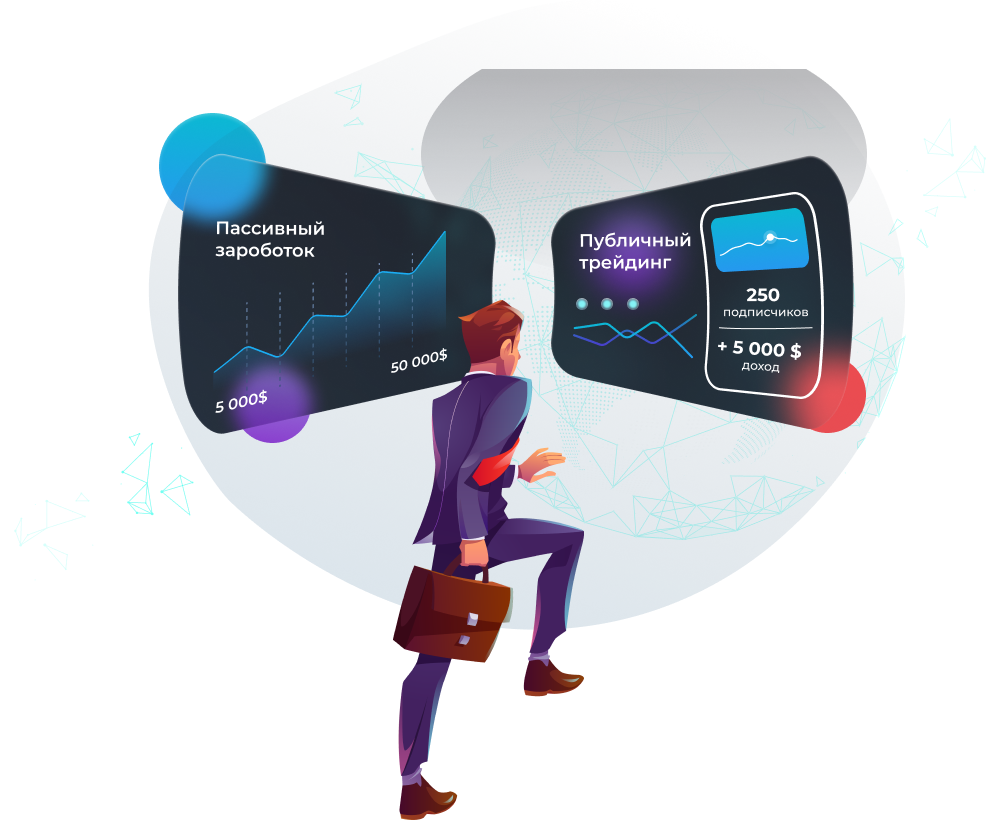
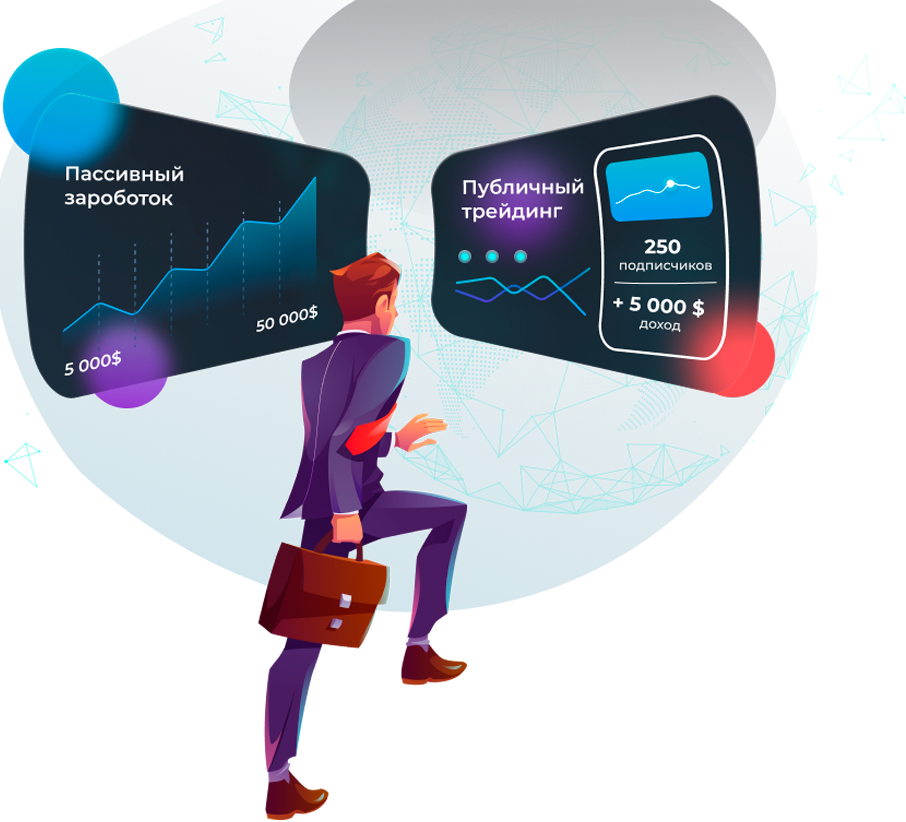
added section invest + footer + header

diff --git a/src/scss/home.scss b/src/scss/home.scss
@@ -1,6 +1,5 @@
 //===================================================================================================
 .invest {
-    position: relative;
     // .invest__container
 
     &__container {
@@ -11,22 +10,27 @@
     &__img::before {
         content: "";
         position: absolute;
-        top: 0;
-        left: 0;
+        top: 100px;
+        left: 1%;
         width: 448px;
-        height: 500px;
+        height: 357px;
         background-image: url("../img/bicoin.png ");
         background-repeat: no-repeat;
         background-size: contain;
+        background-position: center;
         background-position: center;
         z-index: -1;
         @media (max-width: 1250px) {
             width: 300px;
             height: 350px;
+            left: -5%;
         }
-        @media (max-width: 950px) {
-            width: 200px;
-            height: 250px;
+
+        @media (max-width: $mobile) {
+            left: -10%;
+            top: -100px;
+            width: 300px;
+            height: 350px;
         }
     }
 }
@@ -35,30 +39,46 @@
     // .cripto-treider__inner
 
     &__inner {
+        position: relative;
         display: flex;
         justify-content: space-between;
-        align-items: center;
-        position: relative;
+        align-items: end;
 
-        // @media (max-width: 980px) {
-        //     display: block;
-        // }
+        text-align: left;
+
+        @media (max-width: $mobile) {
+            text-align: center;
+            flex-direction: column;
+            justify-content: center;
+            align-items: center;
+        }
     }
 
     // .cripto-treider__item
 
     &__item {
+        display: flex;
+        flex-direction: column;
+        justify-content: flex-start;
+        height: 0px;
+
+        @media (max-width: $mobile) {
+            align-items: center;
+            z-index: -2;
+        }
     }
 
     // .cripto-treider__title
 
     &__title {
-        text-align: left;
-        margin-bottom: rem(15);
         margin-bottom: 30px;
         margin-top: 30px;
         line-height: 125%;
-        max-width: 438px;
+        font-weight: 600;
+        @media (max-width: $mobile) {
+            margin-bottom: 25px;
+            margin-top: 25px;
+        }
     }
 
     // .cripto-treider__text
@@ -66,7 +86,9 @@
     &__text {
         font-size: 12px;
         margin-bottom: 57px;
-        max-width: 338px;
+        @media (max-width: $mobile) {
+            margin-bottom: 14px;
+        }
     }
 
     // .cripto-treider__btn
@@ -74,6 +96,13 @@
     &__btn {
         max-width: 212px;
         box-sizing: border-box;
+        @media (max-width: $mobile) {
+            max-width: 200px;
+
+            margin-bottom: 14px;
+        }
+        @media (max-width: $mobileSmall) {
+        }
     }
 }
 .item {
@@ -81,32 +110,51 @@
 
     &__treider {
         flex: 0 1 400px;
+        position: relative;
+        @media (max-width: $mobile) {
+            flex: 0 1 190px;
+            z-index: -1;
+        }
+        @media (max-width: $mobileSmall) {
+            flex: 0 1 270px;
+        }
     }
     img {
+    }
+}
+.img-men {
+    img {
+        width: 100%;
+        max-width: 100%;
+        position: relative;
+        z-index: -1;
+        @media (max-width: $mobile) {
+            margin-right: 60px;
+        }
+
+        @media (max-width: $mobileSmall) {
+            width: 100%;
+        }
     }
 }
 .img-men::before {
     content: "";
     position: absolute;
-    top: -80px;
-    right: -50px;
-    width: 985px;
-    height: 830px;
-    background-image: url("../img/men.png ");
+    top: 70px;
+    right: -70px;
+    width: 80px;
+    height: 98px;
+    background-image: url(../img/уголок.верх.png);
     background-repeat: no-repeat;
-    background-size: contain;
+    background-size: cover;
     background-position: center;
-    z-index: -1;
-    @media (max-width: 1250px) {
-        width: 900px;
-    }
-    @media (max-width: 1050px) {
-        width: 800px;
-        height: 630px;
-    }
-    @media (max-width: 970px) {
-        width: 700px;
-        height: 530px;
+    z-index: 0;
+    @media (max-width: $mobile) {
+        content: "";
+        width: 50px;
+        height: 58px;
+        top: 250px;
+        right: -10px;
     }
 }
 

diff --git a/src/scss/style.scss b/src/scss/style.scss
@@ -54,6 +54,18 @@ $mobileSmall: em(479.98); // Телефони S
 $responsiveType: 1;
 
 // ============================================================================================================================================================================================================================================================================================================================================================================================
+// адаптивный шрифт:
+@mixin adaptive-font($pcSize, $mobSize) {
+  $addSize: $pcSize - $mobSize;
+  $addMobSize: $addSize + $addSize * 0.7;
+  @media (max-width: $mobile) {
+    font-size: calc(#{$mobSize + px} + #{$addSize} * ((100vw - 320px) / #{$maxWidthContainer}));
+  }
+  @media (min-width: $mobile) {
+    font-size: calc(#{$mobSize + px} + #{$addSize} * (100vw / #{$maxWidthContainer}));
+  }
+}
+
 // ============================================================================================================================================================================================================================================================================================================================================================================================
 
 // Обнулення ============================================================================================================================================================================================== =============================================================================================== ===============================================================================================

diff --git a/src/home.html b/src/home.html
@@ -13,14 +13,18 @@
                 <div class="cripto-treider__title _title">
                   <h2>Инвестируй <br />с лучшими крипто-трейдерами</h2>
                 </div>
-                <div class="cripto-treider__text">
+                <div class="cripto-treider__text _text">
                   Сервис автоматического копирования сделок на криптовалютных
                   биржах.
                 </div>
-                <div class="cripto-treider__btn _button">Создать аккаунт</div>
+                <a href="#" class="cripto-treider__btn _button">
+                  Создать аккаунт</a
+                >
               </div>
 
-              <div class="cripto-treider__item img-men"></div>
+              <div class="cripto-treider__item img-men">
+                <img src="img/men2.png" alt="" />
+              </div>
             </div>
           </div>
         </section>

diff --git a/src/scss/footer.scss b/src/scss/footer.scss
@@ -68,15 +68,22 @@
             align-items: start;
             font-size: 15px;
             flex-direction: column;
-            height: 61px;
+            height: 80px;
         }
 
-        li {
+        .link-footer {
             white-space: nowrap;
             padding-left: 15px;
         }
         @media (max-width: 850px) {
             display: none;
+        }
+        .link-footer:hover {
+            background-image: -webkit-linear-gradient(0deg, #2c90f7 36%, #3bcad4 51%);
+            background-clip: text;
+            -webkit-background-clip: text;
+            transition: background-image 0.3s ease 0s;
+            -webkit-text-fill-color: transparent;
         }
     }
 
@@ -103,6 +110,10 @@
     @media (max-width: 450px) {
         justify-content: start;
         padding: 15px 0px 0px 0px;
+    }
+    a:hover {
+        transform: scale(1.3);
+        transition: all 0.3s ease 0s;
     }
 }
 

diff --git a/src/html/_footer.htm b/src/html/_footer.htm
@@ -9,15 +9,15 @@
         </div>
         <div class="footer-item__menu">
           <ul>
-            <a href="#"><li>Публичный трейдинг</li></a>
-            <a href="#"><li>Пассивный заработок</li></a>
+            <a href="#"  class="link-footer"><li>Публичный трейдинг</li></a>
+            <a href="#" class="link-footer"><li>Пассивный заработок</li></a>
           </ul>
         </div>
         <div class="footer-item__menu">
           
           <ul>
-            <a href="#"><li>Доходы и безопасность</li></a>
-            <a href="#"><li>Обратная связь</li></a>
+            <a href="#" class="link-footer"><li>Доходы и безопасность</li></a>
+            <a href="#" class="link-footer"><li>Обратная связь</li></a>
           </ul>
         </div>
 

diff --git a/src/html/_header.htm b/src/html/_header.htm
@@ -1,16 +1,16 @@
 <header class="header">
   <div class="header__container __container">
     <div class="header__menu menu">
+      <div class="menu__icon icon-menu">
+        <span></span>
+        <span></span>
+        <span></span>
+      </div>
       <a href="#" class="logo-link">
         <img src="@img/logo.png" alt="" />
       </a>
 
       <nav class="menu__body">
-        <div class="menu__icon icon-menu">
-          <span></span>
-          <span></span>
-          <span></span>
-        </div>
         <ul class="menu__list">
           <li><a href="#" class="menu__link">Публичный трейдинг</a></li>
           <li><a href="#" class="menu__link">Пассивный заработок</a></li>

diff --git a/src/scss/header.scss b/src/scss/header.scss
@@ -27,7 +27,7 @@
 	&__body {
 		display: flex;
 		align-items: center;
-		@media (max-width: $mobile) {
+		@media (min-width: $tablet) {
 		}
 	}
 
@@ -37,7 +37,7 @@
 		display: flex;
 		align-items: flex-start;
 		flex-wrap: wrap;
-		justify-content: center;
+		justify-content: end;
 		padding: 10px;
 		@media (max-width: $mobile) {
 			flex-direction: column;
@@ -133,7 +133,6 @@
 		width: rem(30);
 		height: rem(18);
 		z-index: 5;
-		right: 10px;
 
 		@media (any-hover: none) {
 			cursor: default;

diff --git a/src/scss/ul.scss b/src/scss/ul.scss
@@ -22,6 +22,16 @@
 }
 
 ._title {
-    font-weight: 600;
-    font-size: 25px;
+    font-weight: 700;
+    // font-size: calc(17px + 13 * (100vw / 1216));
+    // line-height: calc(100% + 15 * (100vw / 1216));
+    // @media (max-width: $tablet) {
+    //     font-size: calc(17px + (13 + 13 * 0.7) * ((100vw - 320px) / 1216));
+    // }
+    @include adaptive-font(40, 24);
+    line-height: 125%;
+}
+
+._text {
+    @include adaptive-font(15, 20);
 }
